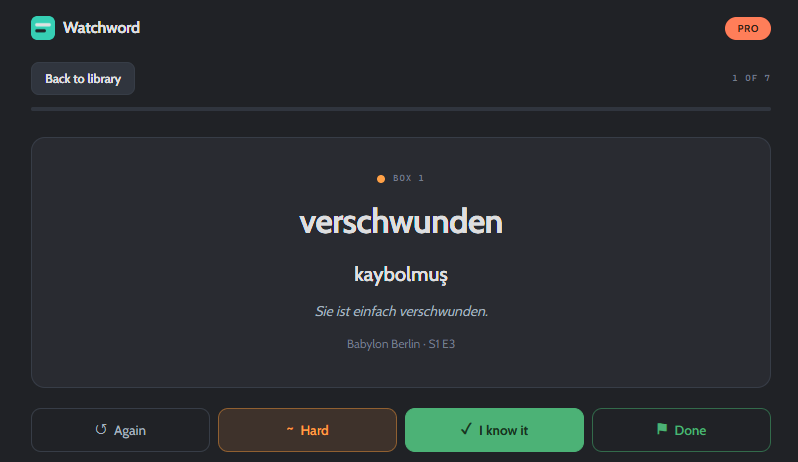
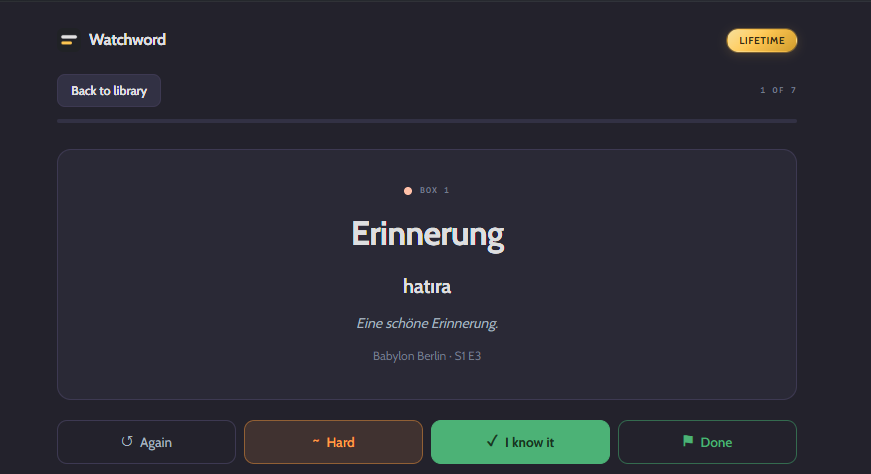
docs: kareler yenilendi, katman karsilastirmasi eklendi
Tekrar cekilen kareler yeni ikonu tasiyor ve popup onizlemesi artik dogru
ceviriyi gosteriyor; onceki set ikisinde de yaniltiyordu. Fiyatlandirmaya uc
katmanin yan yana durdugu kare eklendi.

Claude-Session: https://claude.ai/code/session_012BvcQ8spoZ1AcjUUAeYqFX

diff --git a/README.md b/README.md
@@ -162,6 +162,12 @@ thirteen languages, spaced-repetition review, and up to 50 saved words.
 **€2.50/month** with a 7-day trial, or **€24.99 once.** No renewal, no account —
 a licence key you paste in. Billing is handled by Polar as Merchant of Record.
 
+<img src="screenshots/tiers.png" alt="The same popup on the free, Pro and Lifetime tiers, side by side" width="1143">
+
+The tier is a colour, not a second interface: teal, coral, gold. Nothing moves
+and nothing is hidden behind a menu — what a tier buys is simply legible in
+place, and what it does not buy stays on screen instead of disappearing.
+
 ---
 
 ## How it is built
